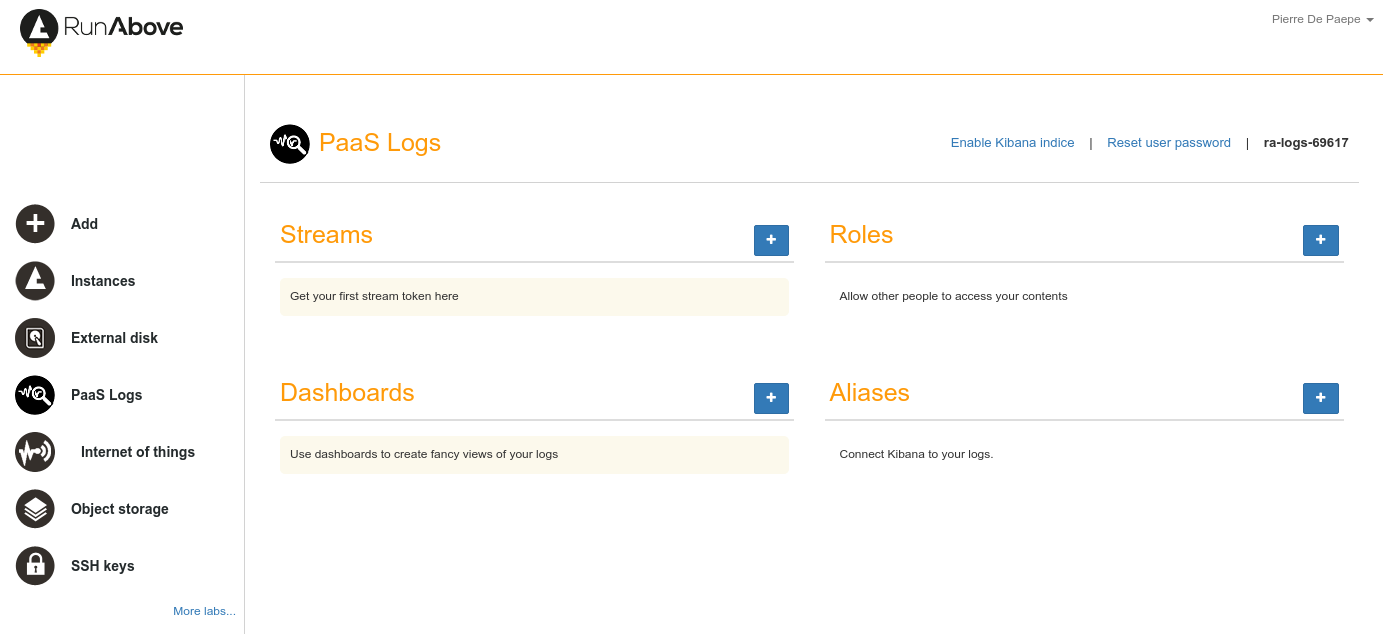
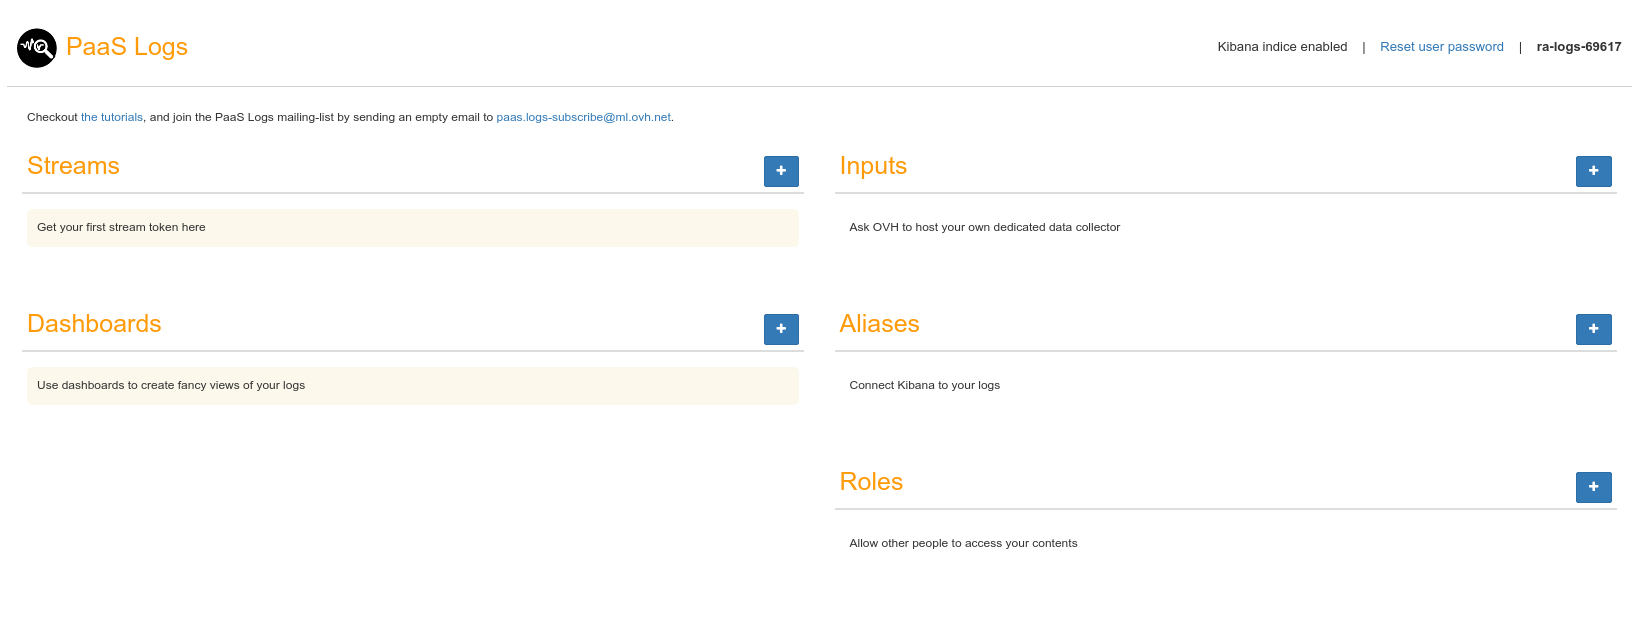
New screenshots for new UX && some typos

diff --git a/en/_posts/2016-02-29-using-kibana-with-laas.md b/en/_posts/2016-02-29-using-kibana-with-laas.md
@@ -8,8 +8,9 @@ lang: en
 
 You want to unleash the full power of Kibana and be able to craft some beautiful Dashboards from your logs. Rest assured, you have come to the right place. 
 Kibana is a powerful weapon, the knowledge you are about to read needs you to have reached a certain level (but way below 9000) in the understanding of PaaS Logs. This is what you need to know to get you started :  
-- you already sending logs on a stream you own (see the quick start tutorial)
-- your web server can reach https://laas.runabove.com:9200. 
+
+ - you already sending logs on a stream you own [see the quick start tutorial](/kb/en/logs/quick-start.html)
+ - your web server can reach https://laas.runabove.com:9200. 
 
 After some training you will be able to do this kind of Dashboard : 
 ![Kibana Dashboard](/kb/images/2016-02-29-using-kibana-with-laas/kibana.png)
@@ -42,15 +43,15 @@ To access your logs from Kibana, you will need to setup an Elasticsearch Alias a
 So here you have, now PaaS Logs knows what is the streams you wnat to browse. Now let's configure Kibana and see if it works ! 
 
 #3 Setup your own kibana
-Get last Kibana **4.1.X** for **Elasticsearch 1.x** here (do NOT try to use 4.2 and 4.3 since they are made for newer version of Elaticsearch)  https://www.elastic.co/downloads/kibana (4.1.5 at the time of writing). Here are some direct links for your convenience. 
+Get last Kibana **4.1.X** for **Elasticsearch 1.x** here (do NOT try to use 4.2 and 4.3 since they are made for incompatible version of Elaticsearch)  https://www.elastic.co/downloads/kibana (4.1.6 at the time of writing). Here are some direct links for your convenience. 
 
- - [WINDOWS](https://download.elastic.co/kibana/kibana/kibana-4.1.5-windows.zip)
+ - [WINDOWS](https://download.elastic.co/kibana/kibana/kibana-4.1.6-windows.zip)
 
- - [MAC](https://download.elastic.co/kibana/kibana/kibana-4.1.5-darwin-x64.tar.gz)
+ - [MAC](https://download.elastic.co/kibana/kibana/kibana-4.1.6-darwin-x64.tar.gz)
 
- - [LINUX 64-BIT](https://download.elastic.co/kibana/kibana/kibana-4.1.5-linux-x64.tar.gz)
+ - [LINUX 64-BIT](https://download.elastic.co/kibana/kibana/kibana-4.1.6-linux-x64.tar.gz)
 
- - [LINUX 32-BIT](https://download.elastic.co/kibana/kibana/kibana-4.1.5-linux-x86.tar.gz)
+ - [LINUX 32-BIT](https://download.elastic.co/kibana/kibana/kibana-4.1.6-linux-x86.tar.gz)
 
 
 Unzip the archive anywhere on your machine.

diff --git a/en/_posts/2016-02-28-field-naming-conventions.md b/en/_posts/2016-02-28-field-naming-conventions.md
@@ -14,6 +14,7 @@ Now that you can send logs, you are maybe wondering how to tell PaaS Logs what k
 A well formated log for PaaS Logs is a [GELF](http://docs.graylog.org/en/latest/pages/gelf.html) formatted log. What is GELF ? A standardized JSON way to send logs. 
 GELF stands for Graylog Extended Log Format. Using this format gives us two advantages, It is directly compatible with Graylog and it is still extensible enough to enrich your logs as you would like to.   
 This format impose a few conventions that if you don't follow can have many consequences : 
+
  - PaaS Logs will rewrite your field as an incorrect one (with a _fixit suffix). 
  - Your log will be rejected and lost in space (not kidding here).
  - We will send Liam Neeson to your house (not kidding either).
@@ -43,7 +44,6 @@ Specifying correct numeric suffixes types is the only way to generate numeric Wi
 ![Numeric widget](/kb/images/2016-02-28-field-naming-conventions/bytes.png)
 
 
-Note that if you use the LTSV format to send logs to our inputs, these suffixes will tell our engine in what format you intended to send your  datas and thus make the right conversion.   
 So this is everything you need to know to send valid messages format  and not shoot yourself in the foot. 
 If you have any question you can always reach us by using the mailing list. 
 
